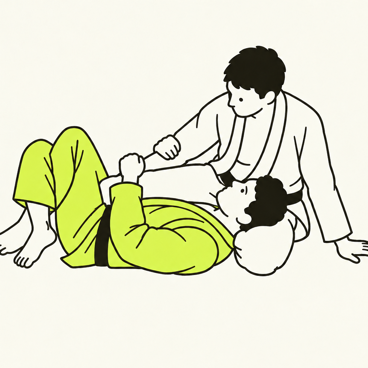
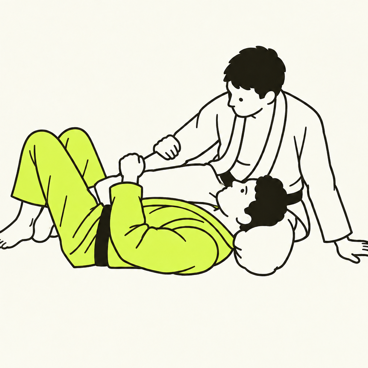
딥 하프 그림: 고친 후보 중 첫 번째로

Changed region(s): [[0.0, 0.3288, 0.2989, 0.7473], [0.5978, 0.4783, 0.6277, 0.5082]]

diff --git a/DECISIONS.md b/DECISIONS.md
@@ -122,5 +122,5 @@
 
 ## D-75 (2026-10-29) 같은 포지션 카드끼리 기준 좌우 맞추기 → **포지션(과 그 안의 갈래)마다 기준 자세를 하나 정하고, 반대 좌우로 적힌 카드는 통째로 뒤집어 맞춘다. 위 · 아래 짝 카드(사이드 위 ↔ 사이드 탈출 등)는 같은 장면을 서로 반대편에서 본 그림으로 맞춘다.** 기준 102줄(예: 데라히바 = 내 왼다리로 상대 오른다리 바깥 훅 · 하프가드 아래 = 상대 오른다리를 감고 내 왼팔 언더훅, 내 오른쪽 어깨 · 엉덩이가 바닥, 니 쉴드는 내 왼쪽 무릎 · 패스 = 상대 오른쪽으로). 62개를 고쳤고, 기술 때문에 좌우가 정해지는 47개는 그대로 둠. "○쪽으로 돌아 눕는다"처럼 어느 쪽이 바닥인지 헷갈리는 말은 쓰지 않고 바닥에 닿는 쪽을 적는다. 하프가드 묶음은 처음 결과(왼쪽이 바닥 + 오른쪽 무릎 니 쉴드)가 왼팔 언더훅과 맞지 않아 Claude 가 기준을 정해 다시 쓰게 함 / 본인 요청("계속 진행") / 영향: data/techniques.json, migration
 
-## D-76 (2026-10-29) 포지션 정리 · 겹치는 카드 합치기 → **정리 페이지 5 · 6번을 반영한다.** ① 포지션 나누기(본인 선택 "딥 하프 + 스탠딩 둘로"): 하프가드에서 딥 하프 9개를 떼어 '딥 하프가드', 스탠딩에서 클린치 · 가드 풀링 · 서서 백 26개를 떼어 '클린치 · 가드 풀링'(스탠딩은 '스탠딩 · 테이크다운') → 포지션 21개. 새 그림 2장은 Higgsfield GPT Image 2.5 로 기존 그림을 스타일 참고로 올려 만듦(클린치 2장 · 딥 하프 4장, 6크레딧), Claude 가 자세가 맞는 것을 골라 `public/positions/clinch.png` · `deep-half.png` → 이어서 본인 요청으로 바꿈(2026-10-30): 기존 스탠딩 그림(깃 · 소매 맞잡기)은 클린치 칸으로, 스탠딩 칸은 본인이 보낸 테이크다운 사진, 딥 하프 칸은 본인이 보낸 딥 하프 사진을 Higgsfield 에 자세 참고로 올려(얼굴은 닮지 않게 · 글자 · 로고 · 배경 빼기, 사진은 본인 계정에 남음) 새로 만듦(4장, 2크레딧). 딥 하프는 본인 선택으로 두 번째 후보에 라임 도복 발목이 엇갈리고 두 발이 보이게 고침(2장, 1크레딧) ② 자리 옮기기 14개(대조 두 번이 함께 가리킨 것: 패스 → 클로즈드 가드 7 · 하프가드 3 · 버터플라이 1 · 오픈 가드 3) ③ '서브미션 자세' 이름을 '서브미션 걸린 뒤 (…)'로 ④ 남북 칸에 남북 초크 · 남북 → 사이드 · 남북 백 테이크 3개 추가 ⑤ 같은 포지션에서 세팅 과정이 거의 같은 카드 44개를 남길 카드로 합침 — 지운 카드의 이름 · 다른 이름은 남긴 카드의 다른 이름으로 옮겨 검색은 그대로 되고, 기록 · 숙련도 · 제안 · 알림도 옮긴다(지금 연결된 기록은 0개였음). D-46 의 '기술은 지우지 않는다'는 이 합치기에 한해 예외 / 본인 요청 / 영향: positions · techniques(574개), FLOW 지도 · 기술 고르기 21칸, data/techniques.json
+## D-76 (2026-10-29) 포지션 정리 · 겹치는 카드 합치기 → **정리 페이지 5 · 6번을 반영한다.** ① 포지션 나누기(본인 선택 "딥 하프 + 스탠딩 둘로"): 하프가드에서 딥 하프 9개를 떼어 '딥 하프가드', 스탠딩에서 클린치 · 가드 풀링 · 서서 백 26개를 떼어 '클린치 · 가드 풀링'(스탠딩은 '스탠딩 · 테이크다운') → 포지션 21개. 새 그림 2장은 Higgsfield GPT Image 2.5 로 기존 그림을 스타일 참고로 올려 만듦(클린치 2장 · 딥 하프 4장, 6크레딧), Claude 가 자세가 맞는 것을 골라 `public/positions/clinch.png` · `deep-half.png` → 이어서 본인 요청으로 바꿈(2026-10-30): 기존 스탠딩 그림(깃 · 소매 맞잡기)은 클린치 칸으로, 스탠딩 칸은 본인이 보낸 테이크다운 사진, 딥 하프 칸은 본인이 보낸 딥 하프 사진을 Higgsfield 에 자세 참고로 올려(얼굴은 닮지 않게 · 글자 · 로고 · 배경 빼기, 사진은 본인 계정에 남음) 새로 만듦(4장, 2크레딧). 딥 하프는 본인 선택으로 두 번째 후보에 라임 도복 발목이 엇갈리고 두 발이 보이게 고침(2장, 1크레딧) — 고친 것 중 첫 번째(본인 선택) ② 자리 옮기기 14개(대조 두 번이 함께 가리킨 것: 패스 → 클로즈드 가드 7 · 하프가드 3 · 버터플라이 1 · 오픈 가드 3) ③ '서브미션 자세' 이름을 '서브미션 걸린 뒤 (…)'로 ④ 남북 칸에 남북 초크 · 남북 → 사이드 · 남북 백 테이크 3개 추가 ⑤ 같은 포지션에서 세팅 과정이 거의 같은 카드 44개를 남길 카드로 합침 — 지운 카드의 이름 · 다른 이름은 남긴 카드의 다른 이름으로 옮겨 검색은 그대로 되고, 기록 · 숙련도 · 제안 · 알림도 옮긴다(지금 연결된 기록은 0개였음). D-46 의 '기술은 지우지 않는다'는 이 합치기에 한해 예외 / 본인 요청 / 영향: positions · techniques(574개), FLOW 지도 · 기술 고르기 21칸, data/techniques.json
 
